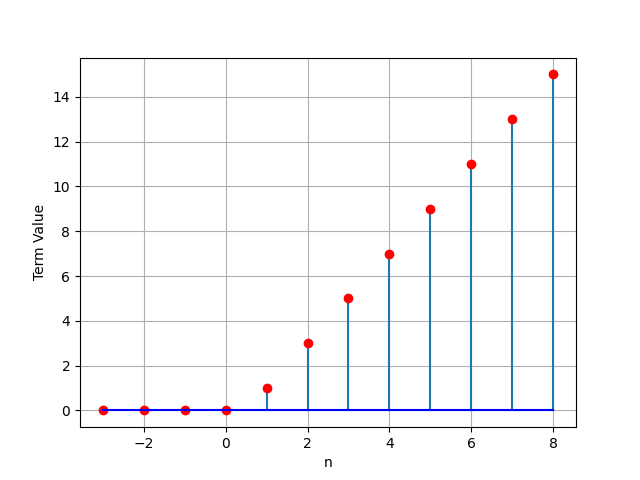
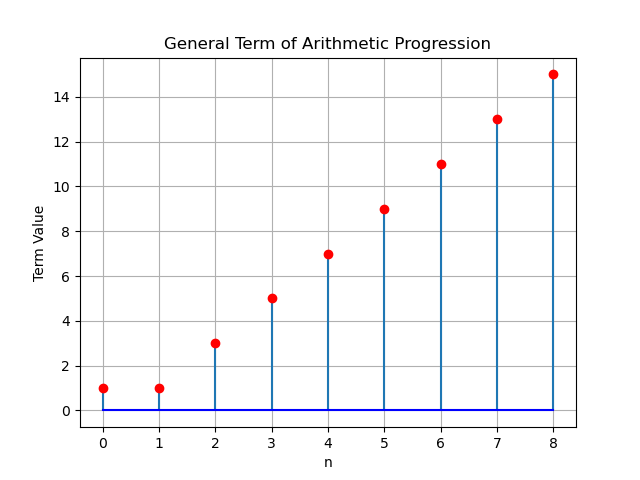
first

diff --git a/assignment 1/1.tex b/assignment 1/1.tex
@@ -146,10 +146,10 @@ part 2\\
 from equations \eqref{eq11.9.2.4} and \eqref{eq11.9.2.7}\\
  \begin{align}
     d&=\frac{x\brak{m-1}-x\brak{7}}{m-8}\\
-    \frac{30}{m+1}&=\frac{x\brak{7}\brak{\frac{4}{9}}}{m-8}\\
-    x\brak{7}&=\frac{75\brak{m-8}}{2\brak{m+1}}\\
+    \frac{30}{m+1}&=\frac{x\brak{7}\brak{\frac{4}{9}}}{m-8}\\ \label{eq11.9.2.18}
+    x\brak{7}&=\frac{75\brak{m-8}}{2\brak{m+1}}
  \end{align}
-Substituting $x\brak{7}$ in part 1\\
+Substituting \eqref{eq11.9.2.18} in part 1\\
  \begin{align}
     m-8&=\frac{75\brak{m-8}\brak{5m-68}}{10\brak{m+1}}\\
     2\brak{m+1}&=15\brak{5m-68}\\
@@ -159,7 +159,7 @@ Substituting $x\brak{7}$ in part 1\\
  \end{align}
 General term of AP as 
 \begin{align}
-    x\brak{n}=2n-1
+    x\brak{n}=\brak{2n-1}u(n)
 \end{align}
 \begin{figure}[!h]
     \centering

diff --git a/assignment 1/codes/a_0.c b/assignment 1/codes/a_0.c
@@ -10,7 +10,7 @@ int main() {
     // Write the output to the file
     int a = 1;
     int d = 2;
-    int start_n = -3;
+    int start_n = 0;
     int end_n = 8;
     int n;
     for (n = start_n; n <= end_n; ++n) {

diff --git a/assignment 1/codes/pic1.py b/assignment 1/codes/pic1.py
@@ -20,6 +20,6 @@ def plot_ap_general_term(a, d, start, end):
 
 a = 1  
 d = 2
-start_n = -3
+start_n = 0
 end_n = 8
 plot_ap_general_term(a, d, start_n, end_n)
